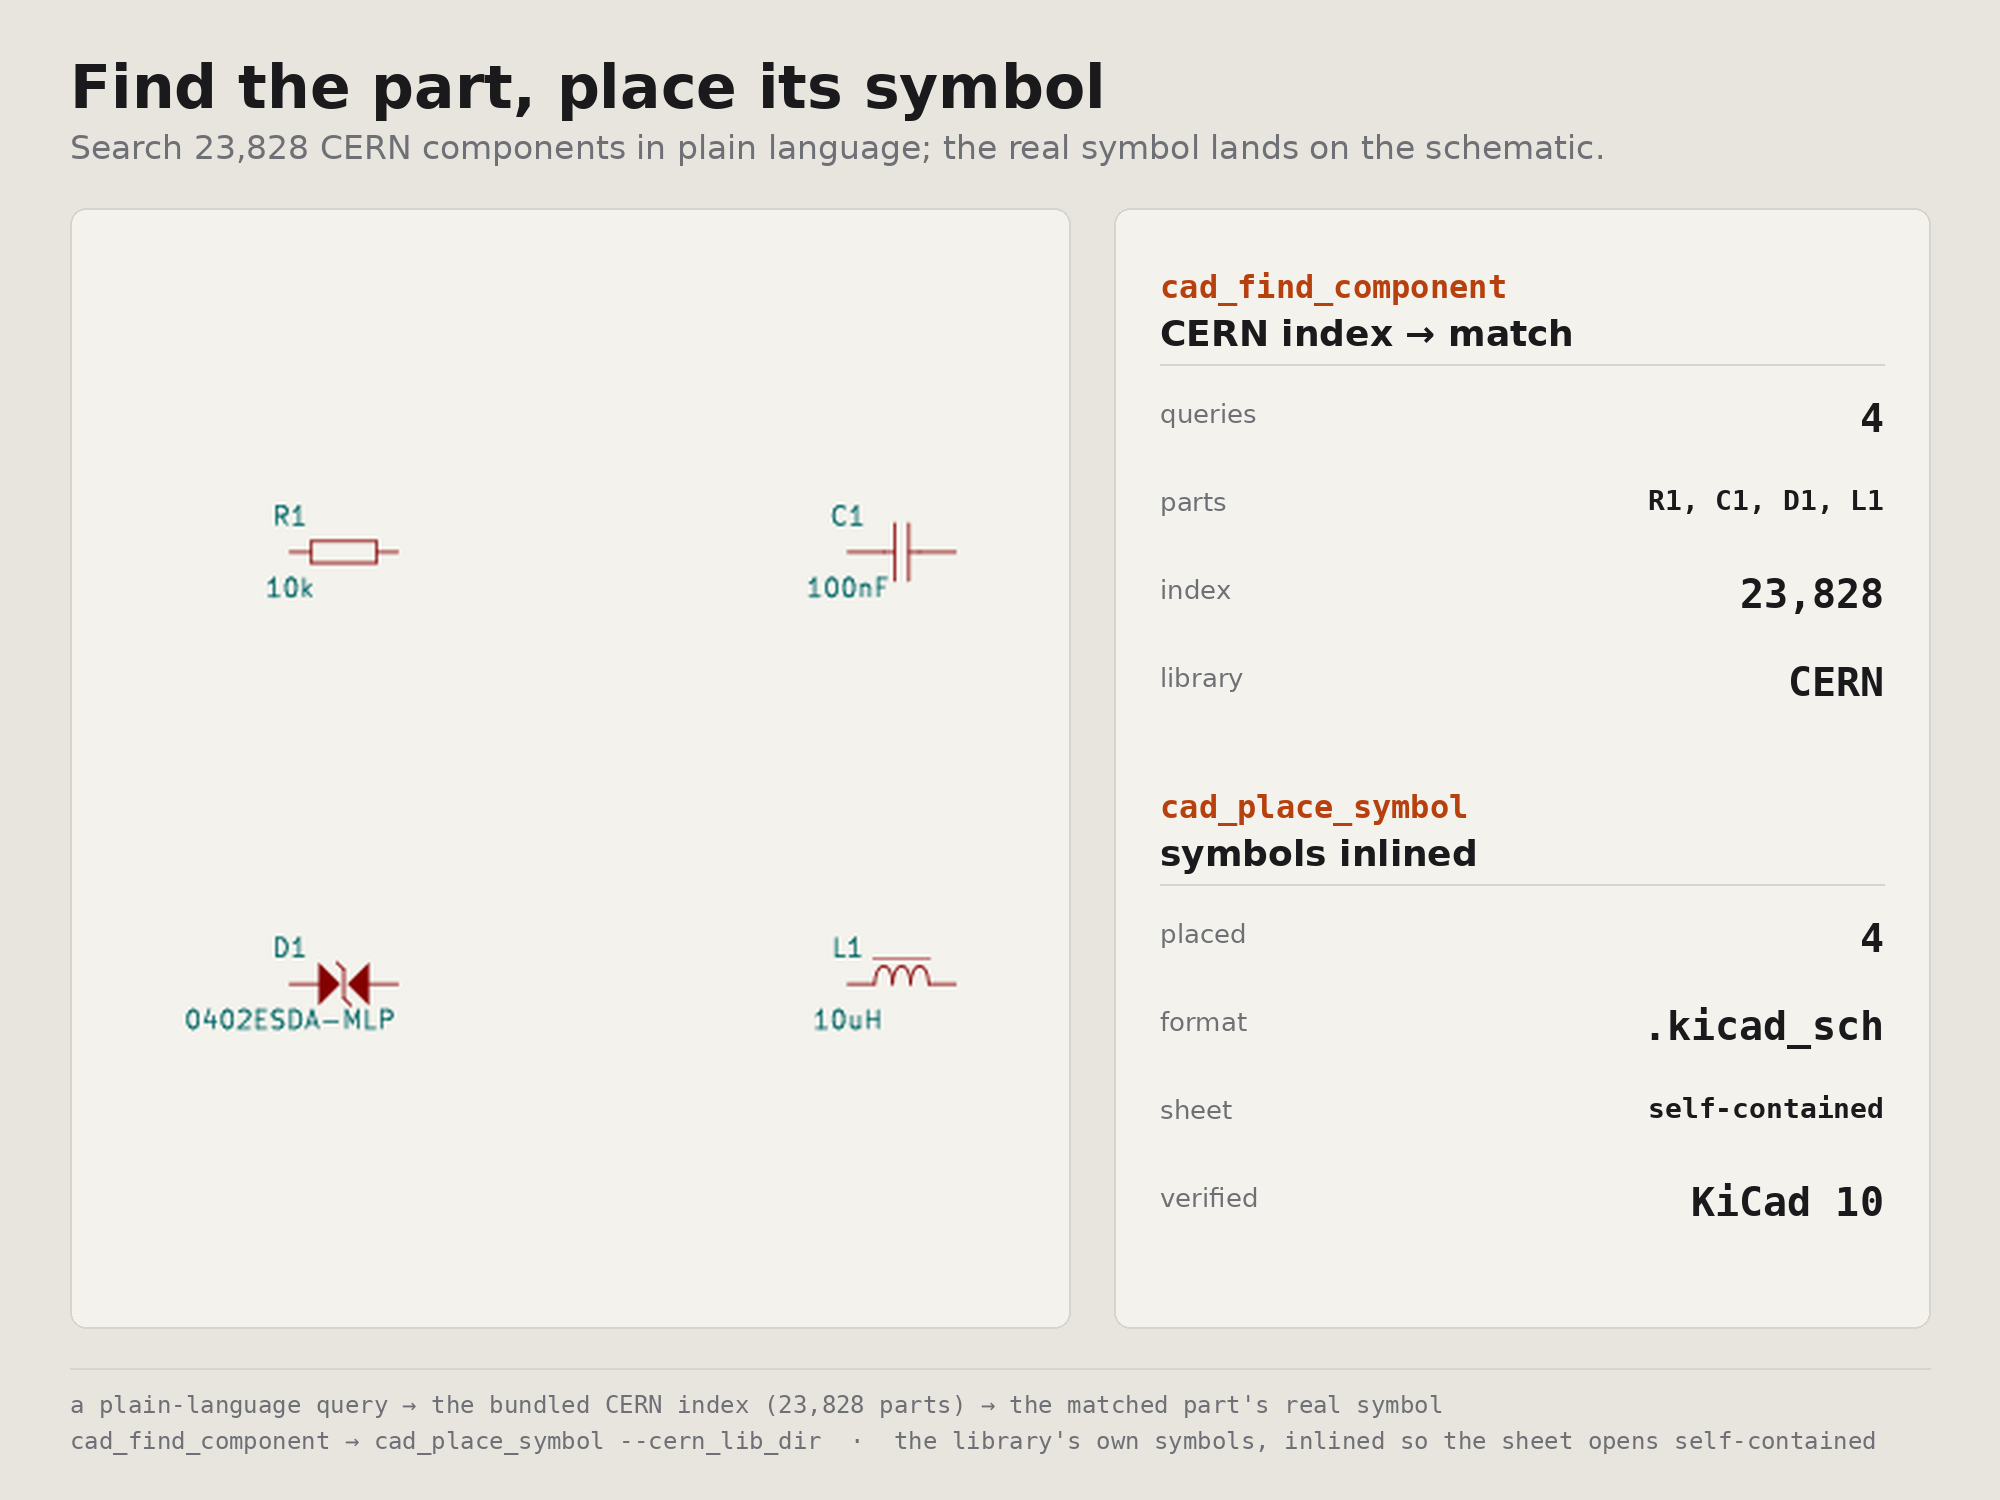
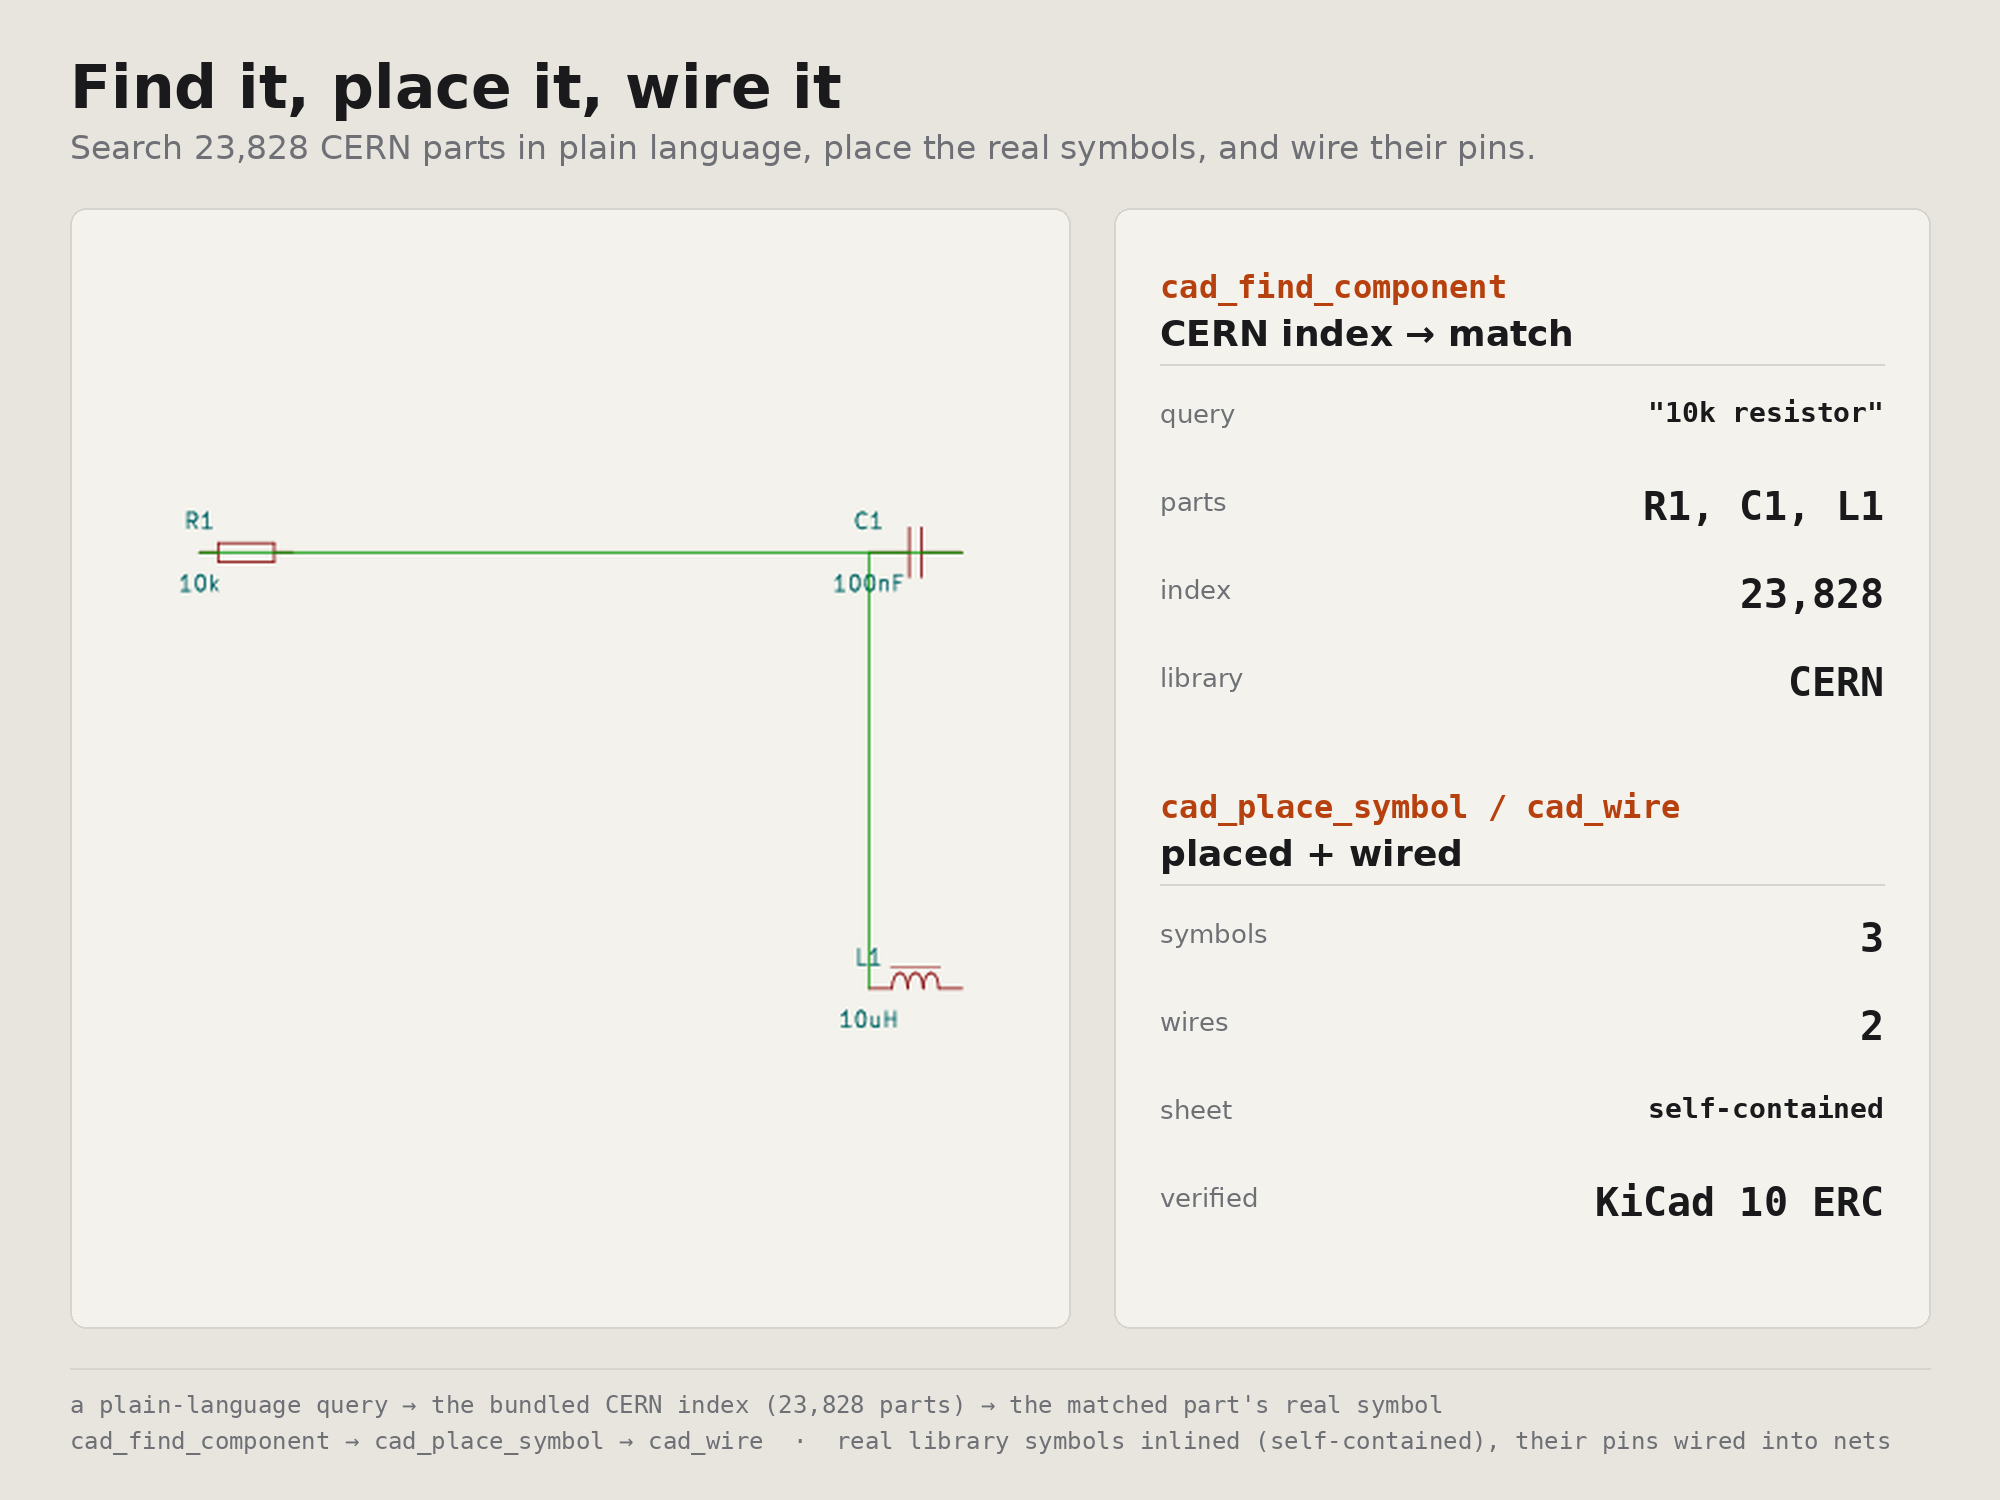
Show the schematic tile wired (find, place, wire)
The schematic-placement tile now renders a real R-C-L circuit with its pins wired
into nets (cad_wire), not just placed symbols, and shows the plain-language query.

diff --git a/components/Proof.tsx b/components/Proof.tsx
@@ -181,8 +181,8 @@ const proofs: Proof[] = [
     // resolved, rendered + load-verified by KiCad 10).
     img: "/screenshots/showcase/schematic-place.png",
     fit: "contain",
-    title: "Find the part, place its symbol",
-    prompt: "Find a 10k resistor, a 100nF cap, a diode and an inductor and drop their symbols on my schematic.",
+    title: "Find it, place it, wire it",
+    prompt: "Find a 10k resistor, a 100nF cap and an inductor, place them, and wire them up.",
   },
   {
     // Circuit simulation: cad_circuit_sim reads the board's netlist, builds a
